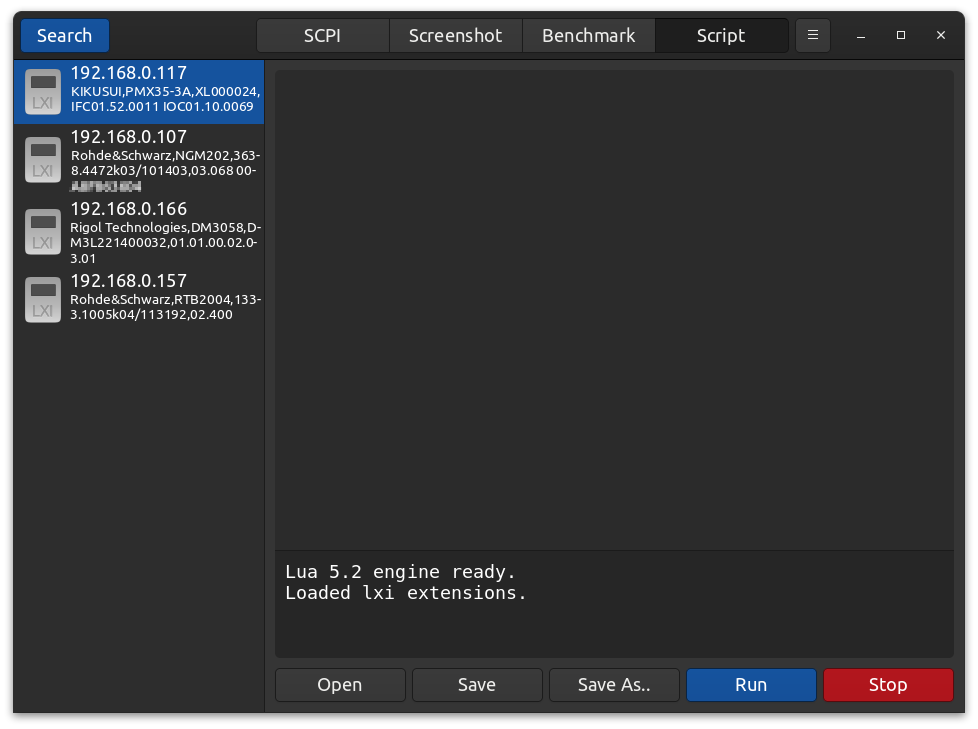
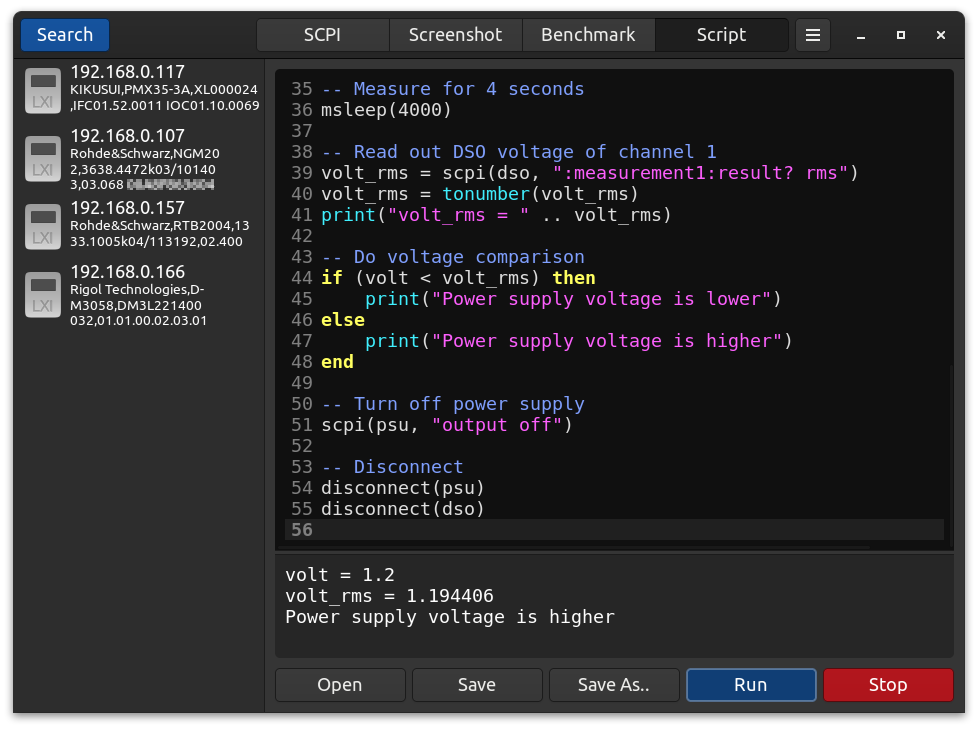
Update README

diff --git a/README.md b/README.md
@@ -40,6 +40,8 @@ tool but presents them in a modern GUI frontend.
 
 <img src="images/lxi-gui-benchmark.png" align="center">
 
+<img src="images/lxi-gui-script.png" align="center">
+
 ### 2.2 lxi
 
 The commandline interface of the lxi application is described in the output
